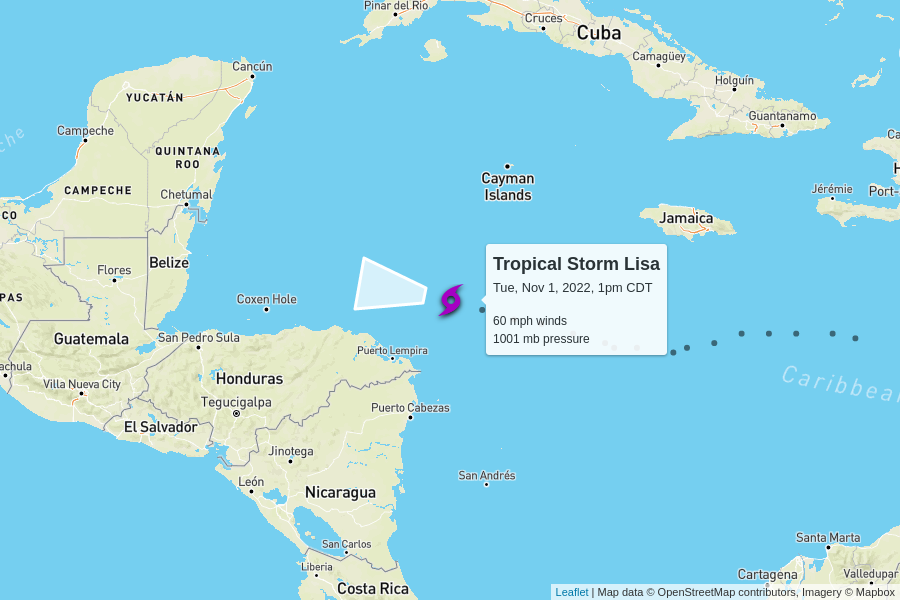
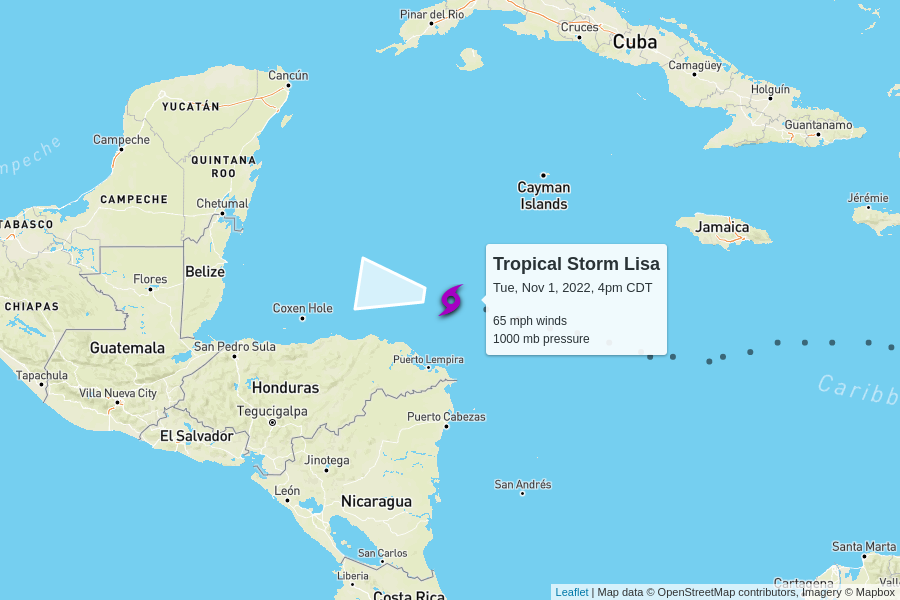
automatic update

diff --git a/docs/index.html b/docs/index.html
@@ -100,7 +100,7 @@
         <td colspan="6" class="storm category-0" >
           <h2>
             Tropical Storm Lisa
-            <p class="updated">last updated <span data-time>2022-11-01T18:00:00.000Z</span></p>
+            <p class="updated">last updated <span data-time>2022-11-01T21:00:00.000Z</span></p>
           </h2>
         </td>
       </tr>
@@ -115,8 +115,8 @@
       </tr>
       <tr>
         <td class="spacer"></td>
-        <td>60 mph</td>
-        <td>1001 mb</td>
+        <td>65 mph</td>
+        <td>1000 mb</td>
         <td>
           15 mph to the west
           <br/>
@@ -144,7 +144,7 @@
         <td colspan="6" class="storm category-0" >
           <h2>
             Tropical Storm Martin
-            <p class="updated">last updated <span data-time>2022-11-01T15:00:00.000Z</span></p>
+            <p class="updated">last updated <span data-time>2022-11-01T21:00:00.000Z</span></p>
           </h2>
         </td>
       </tr>
@@ -159,10 +159,10 @@
       </tr>
       <tr>
         <td class="spacer"></td>
-        <td>50 mph</td>
-        <td>997 mb</td>
+        <td>60 mph</td>
+        <td>991 mb</td>
         <td>
-          12 mph to the east
+          13 mph to the east
           <br/>
           <span style="display: inline-block; font-size: 1.5em; transform: rotate(90deg);">↑</span>
         </td>
